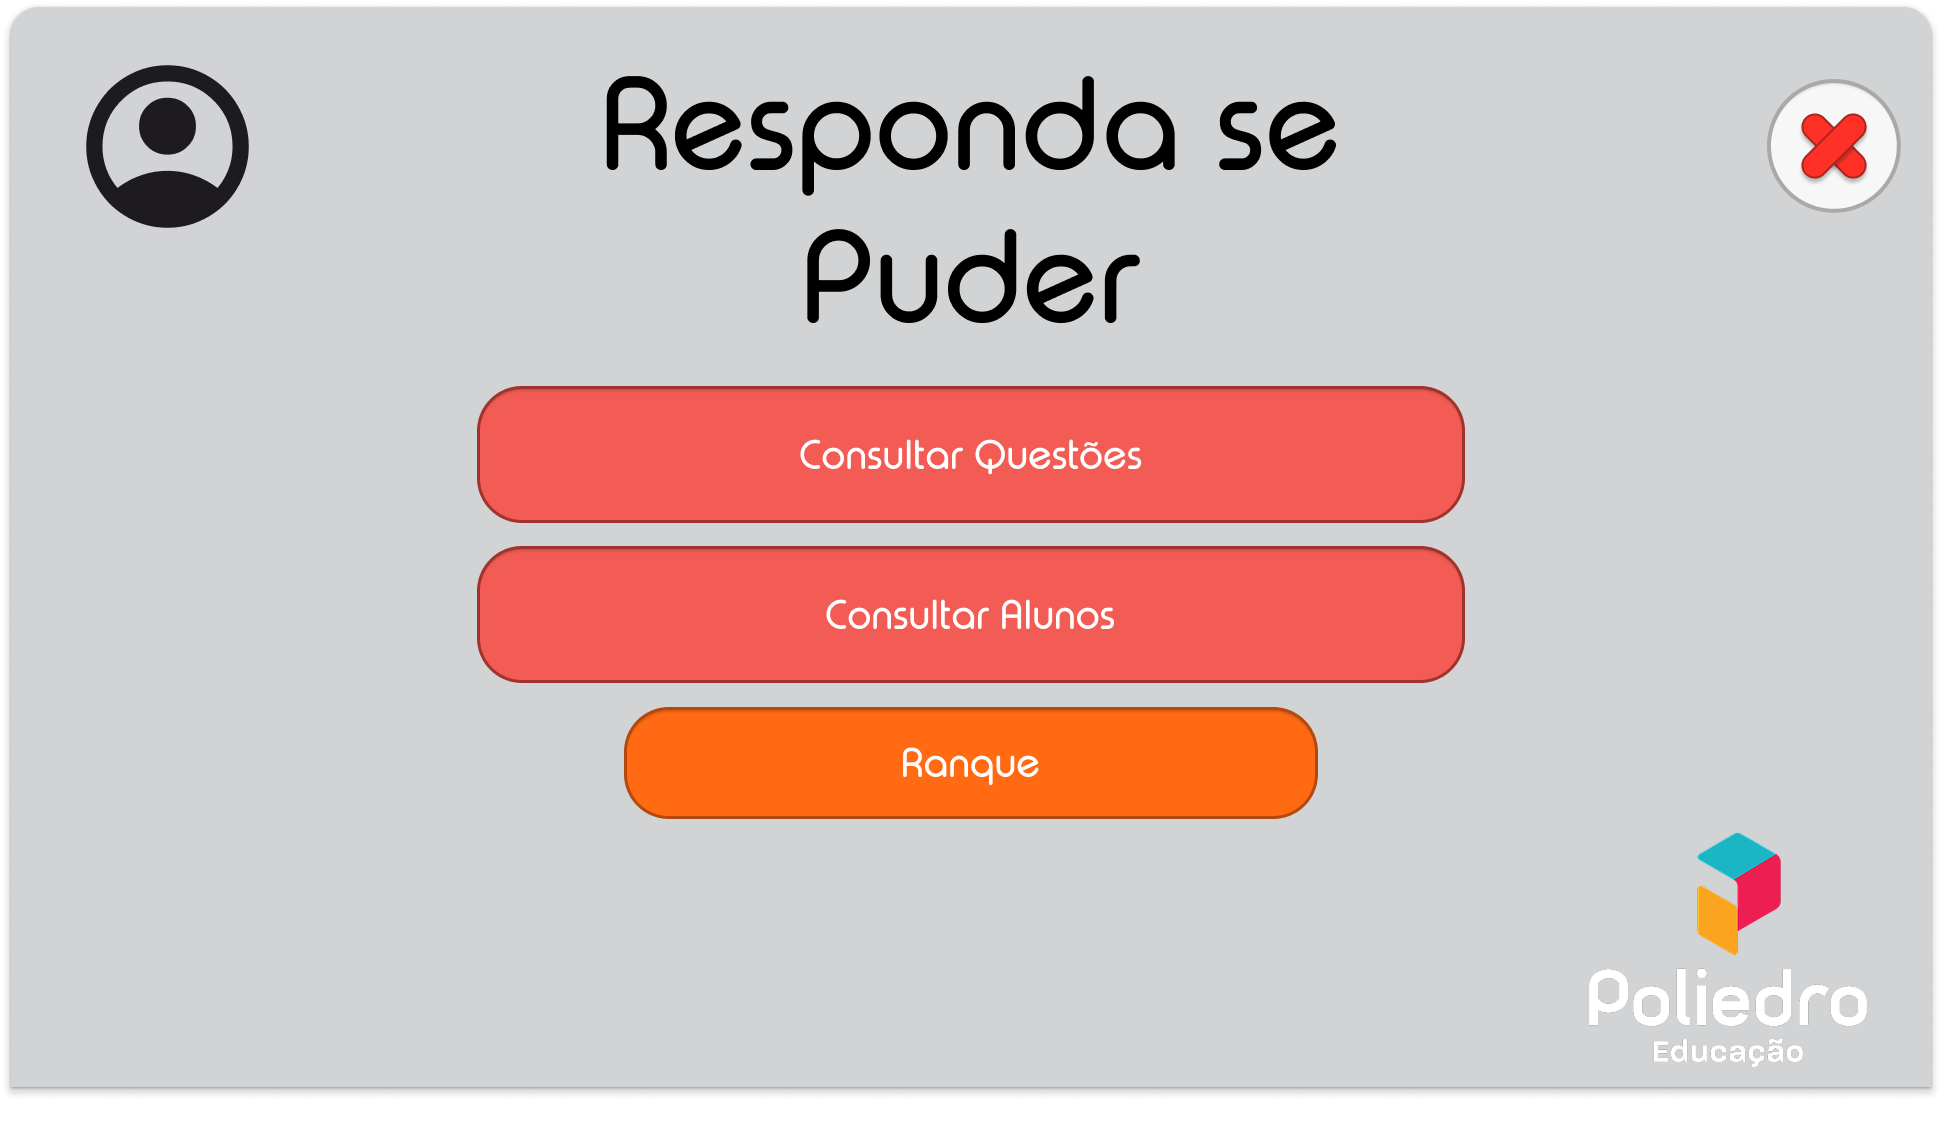
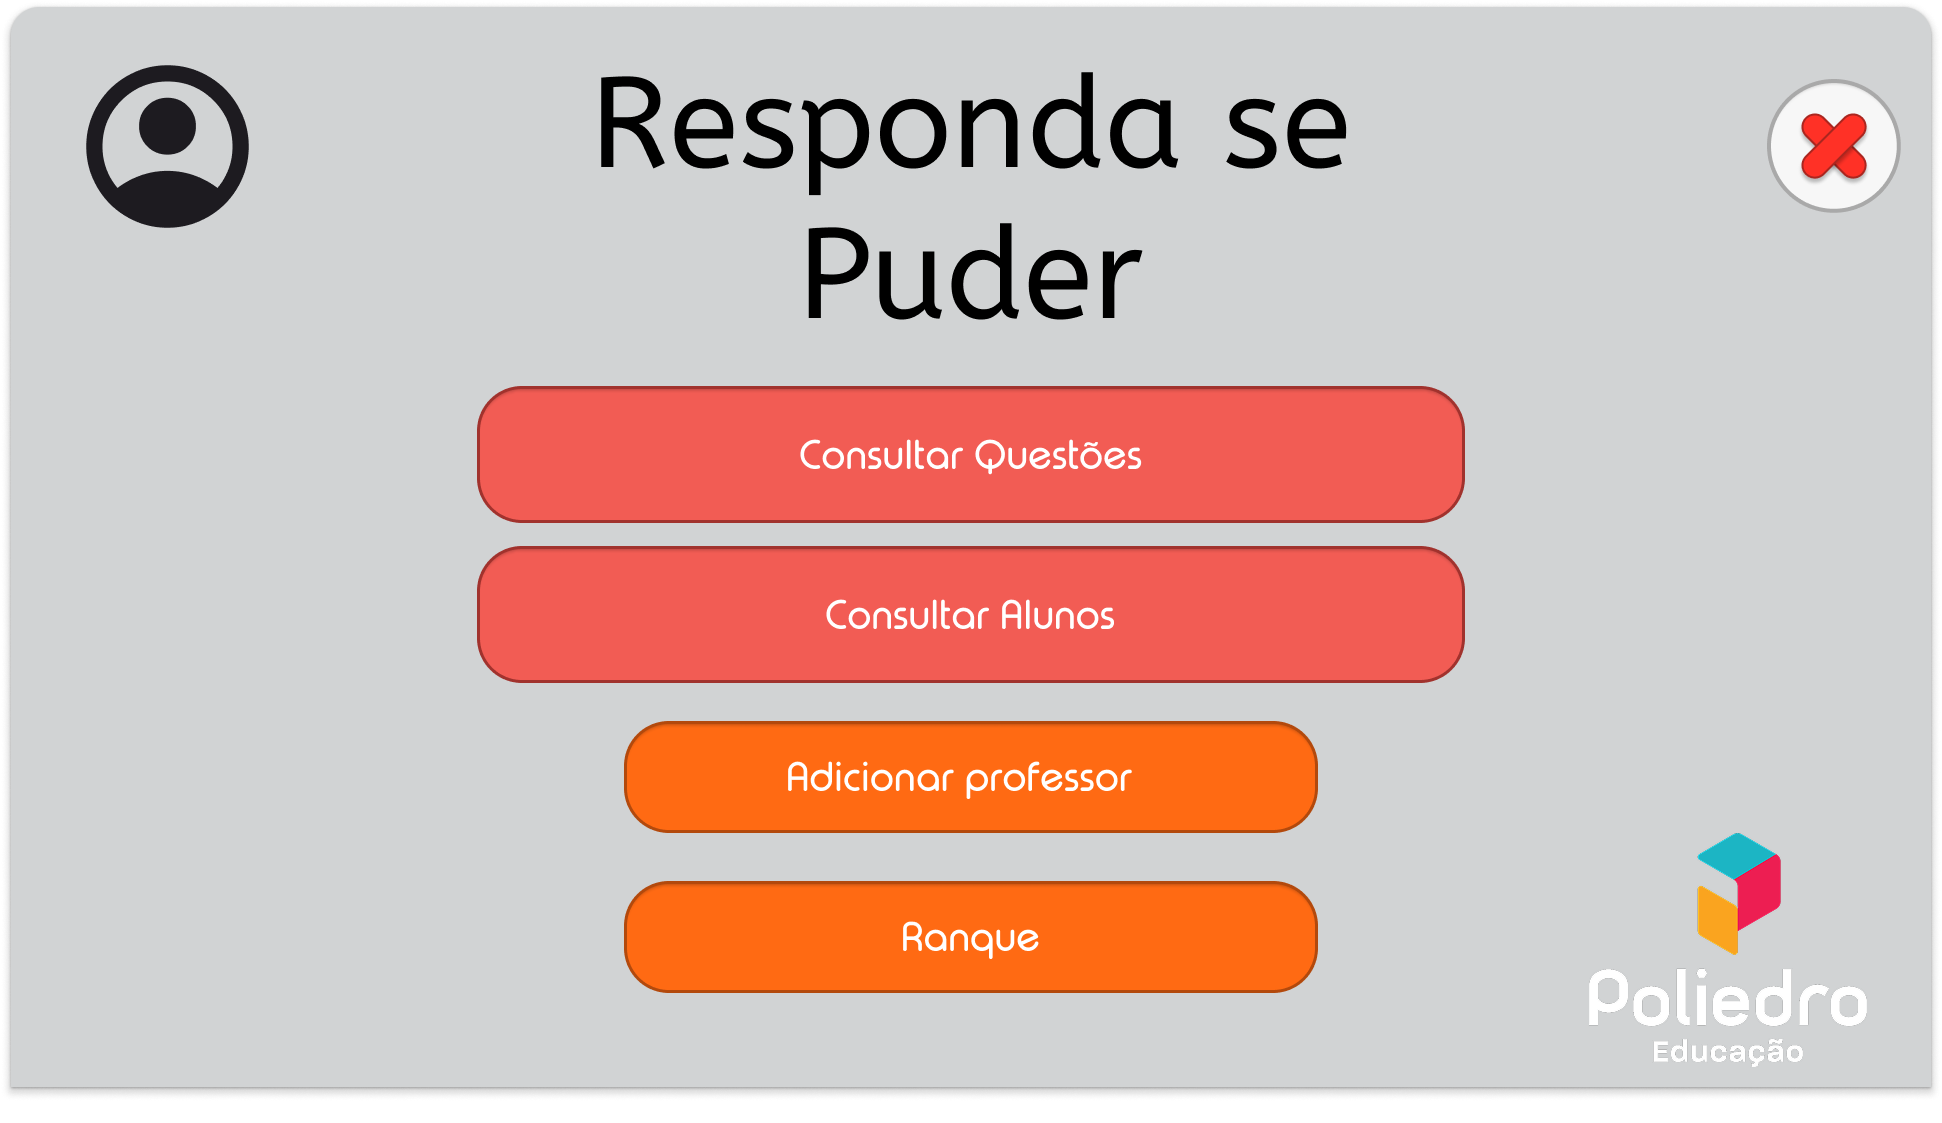
refactor: altera a tela de ADM com a implementação do botão de adicionar aluno

Changed region(s): [[0.309, 0.7792, 0.6797, 0.9038], [0.309, 0.0623, 0.7106, 0.3117], [0.309, 0.6233, 0.6797, 0.748]]

diff --git a/RespondaSePuder/src/main/java/br/maua/respondasepuder/telas/TelaDeADM.java b/RespondaSePuder/src/main/java/br/maua/respondasepuder/telas/TelaDeADM.java
@@ -33,13 +33,14 @@ public class TelaDeADM extends javax.swing.JFrame {
         ranqueButton = new javax.swing.JButton();
         acessarInformacoesADMButton = new javax.swing.JButton();
         sairDoJogoADMButton = new javax.swing.JButton();
+        adicionarProfessorButton = new javax.swing.JButton();
         imageLabel = new javax.swing.JLabel();
 
         setDefaultCloseOperation(javax.swing.WindowConstants.EXIT_ON_CLOSE);
         getContentPane().setLayout(new org.netbeans.lib.awtextra.AbsoluteLayout());
 
         consultarQuestoesButton.setContentAreaFilled(false);
-        consultarQuestoesButton.setCursor(new java.awt.Cursor(java.awt.Cursor.HAND_CURSOR));
+        consultarQuestoesButton.setCursor(new java.awt.Cursor(java.awt.Cursor.DEFAULT_CURSOR));
         consultarQuestoesButton.addActionListener(new java.awt.event.ActionListener() {
             public void actionPerformed(java.awt.event.ActionEvent evt) {
                 consultarQuestoesButtonActionPerformed(evt);
@@ -48,7 +49,7 @@ public class TelaDeADM extends javax.swing.JFrame {
         getContentPane().add(consultarQuestoesButton, new org.netbeans.lib.awtextra.AbsoluteConstraints(470, 333, 980, 120));
 
         consultarAlunosButton.setContentAreaFilled(false);
-        consultarAlunosButton.setCursor(new java.awt.Cursor(java.awt.Cursor.HAND_CURSOR));
+        consultarAlunosButton.setCursor(new java.awt.Cursor(java.awt.Cursor.DEFAULT_CURSOR));
         consultarAlunosButton.addActionListener(new java.awt.event.ActionListener() {
             public void actionPerformed(java.awt.event.ActionEvent evt) {
                 consultarAlunosButtonActionPerformed(evt);
@@ -57,16 +58,16 @@ public class TelaDeADM extends javax.swing.JFrame {
         getContentPane().add(consultarAlunosButton, new org.netbeans.lib.awtextra.AbsoluteConstraints(470, 493, 980, 120));
 
         ranqueButton.setContentAreaFilled(false);
-        ranqueButton.setCursor(new java.awt.Cursor(java.awt.Cursor.HAND_CURSOR));
+        ranqueButton.setCursor(new java.awt.Cursor(java.awt.Cursor.DEFAULT_CURSOR));
         ranqueButton.addActionListener(new java.awt.event.ActionListener() {
             public void actionPerformed(java.awt.event.ActionEvent evt) {
                 ranqueButtonActionPerformed(evt);
             }
         });
-        getContentPane().add(ranqueButton, new org.netbeans.lib.awtextra.AbsoluteConstraints(610, 653, 700, 100));
+        getContentPane().add(ranqueButton, new org.netbeans.lib.awtextra.AbsoluteConstraints(610, 830, 700, 100));
 
         acessarInformacoesADMButton.setContentAreaFilled(false);
-        acessarInformacoesADMButton.setCursor(new java.awt.Cursor(java.awt.Cursor.HAND_CURSOR));
+        acessarInformacoesADMButton.setCursor(new java.awt.Cursor(java.awt.Cursor.DEFAULT_CURSOR));
         acessarInformacoesADMButton.addActionListener(new java.awt.event.ActionListener() {
             public void actionPerformed(java.awt.event.ActionEvent evt) {
                 acessarInformacoesADMButtonActionPerformed(evt);
@@ -75,13 +76,17 @@ public class TelaDeADM extends javax.swing.JFrame {
         getContentPane().add(acessarInformacoesADMButton, new org.netbeans.lib.awtextra.AbsoluteConstraints(85, 13, 150, 150));
 
         sairDoJogoADMButton.setContentAreaFilled(false);
-        sairDoJogoADMButton.setCursor(new java.awt.Cursor(java.awt.Cursor.HAND_CURSOR));
+        sairDoJogoADMButton.setCursor(new java.awt.Cursor(java.awt.Cursor.DEFAULT_CURSOR));
         sairDoJogoADMButton.addActionListener(new java.awt.event.ActionListener() {
             public void actionPerformed(java.awt.event.ActionEvent evt) {
                 sairDoJogoADMButtonActionPerformed(evt);
             }
         });
         getContentPane().add(sairDoJogoADMButton, new org.netbeans.lib.awtextra.AbsoluteConstraints(1765, 23, 120, 120));
+
+        adicionarProfessorButton.setContentAreaFilled(false);
+        adicionarProfessorButton.setCursor(new java.awt.Cursor(java.awt.Cursor.HAND_CURSOR));
+        getContentPane().add(adicionarProfessorButton, new org.netbeans.lib.awtextra.AbsoluteConstraints(610, 660, 710, 120));
 
         imageLabel.setIcon(new javax.swing.ImageIcon(getClass().getResource("/images/Tela de ADM.png"))); // NOI18N
         getContentPane().add(imageLabel, new org.netbeans.lib.awtextra.AbsoluteConstraints(-10, -60, -1, -1));
@@ -150,6 +155,7 @@ public class TelaDeADM extends javax.swing.JFrame {
 
     // Variables declaration - do not modify//GEN-BEGIN:variables
     private javax.swing.JButton acessarInformacoesADMButton;
+    private javax.swing.JButton adicionarProfessorButton;
     private javax.swing.JButton consultarAlunosButton;
     private javax.swing.JButton consultarQuestoesButton;
     private javax.swing.JLabel imageLabel;
